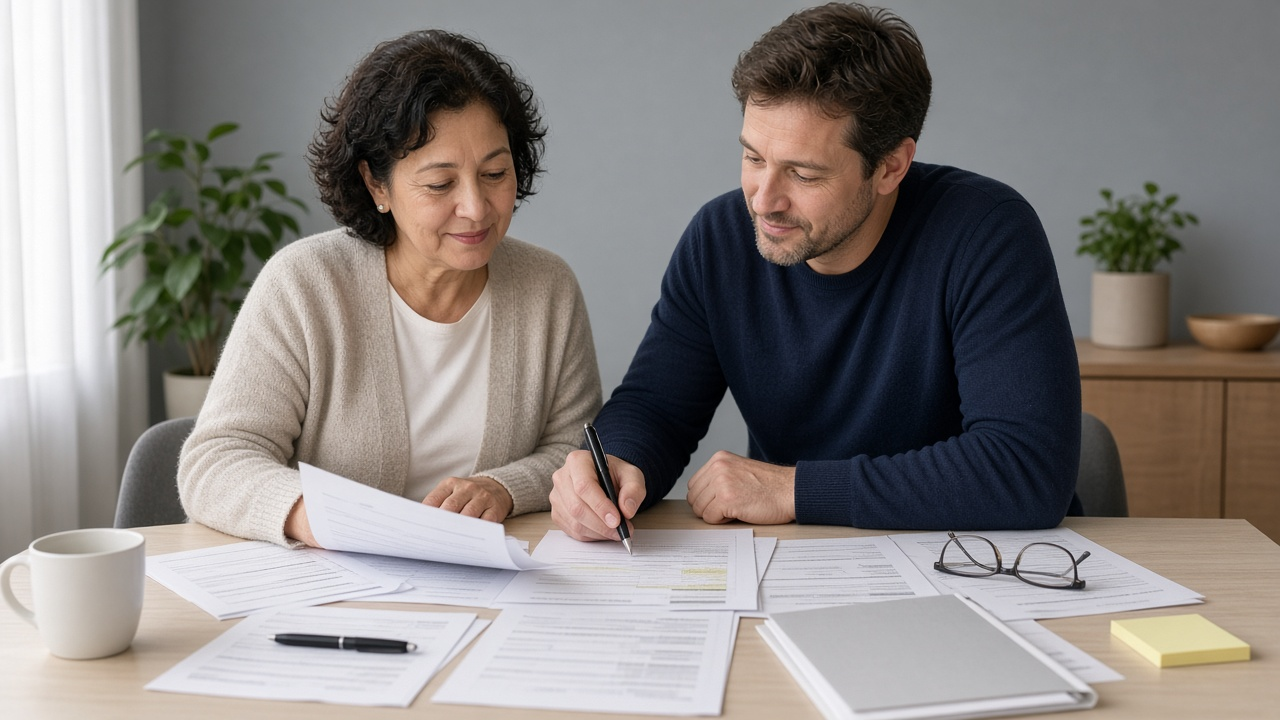
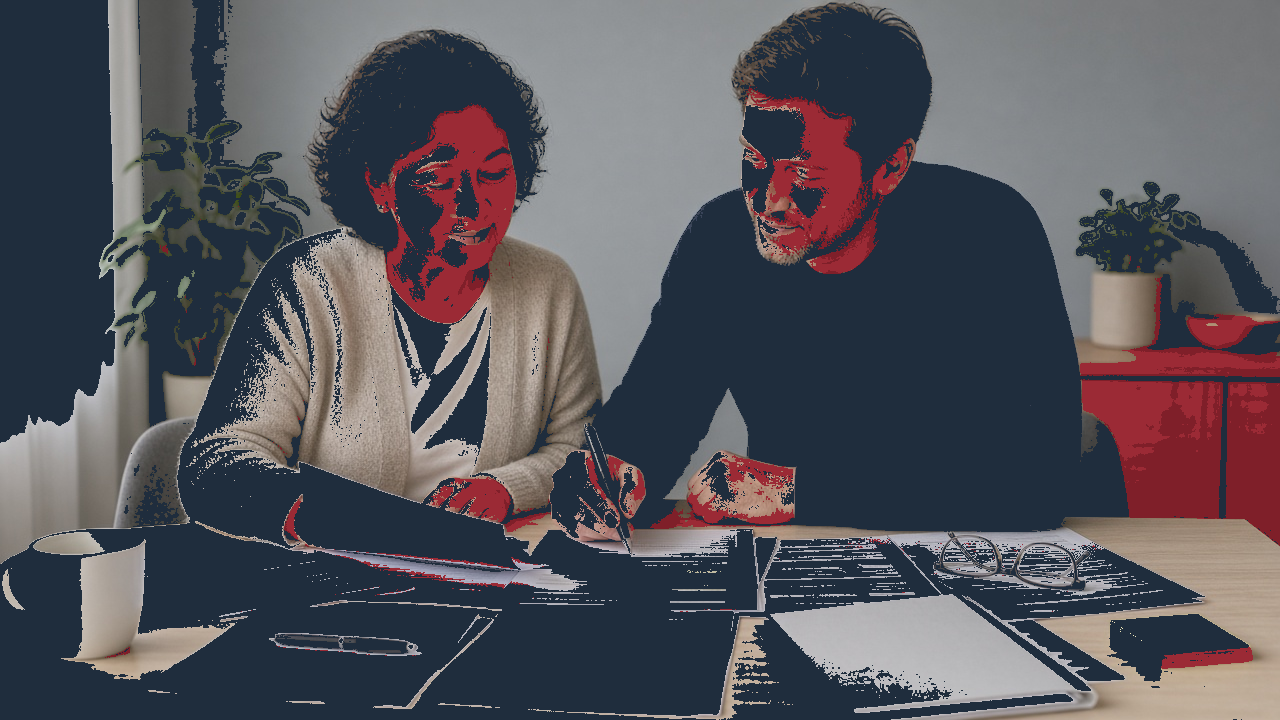
Contact Firm role-gate + Slate & Garnet thumbnail remint (#40)
* Contact Firm role-gate + Slate & Garnet thumbnail remint

Hide Firm on contact for applicant/family roles; show only for attorney
and firm staff paths. Clear firm value and aria-hide wrapper when hidden.

Recolor public raster thumbs, OG share card, and favicon/apple-touch
assets to garnet (#9b2a35) and slate (#1f2d3d) on stone surfaces.
Process Offer copy on how-it-works and methods unchanged.

* Fix Firm field visibility and garnet thumbnail remap

.form .field { display: flex } overrode the hidden attribute, so Firm
stayed on screen for applicant and family. Force display:none on
.form .field[hidden].

_anchor_remap squared channel deltas in int16, which wrapped and
flattened favicon, apple-touch, and lockup-1000 to slate. Use int32
and clip, then regenerate those four rasters so garnet #9b2a35 is present.

---------

diff --git a/js/site.js b/js/site.js
@@ -37,25 +37,50 @@
   var status = document.getElementById("form-status");
   var preview = document.getElementById("form-preview");
   var copyBtn = document.getElementById("copy-request");
+  var roleSelect = document.getElementById("role");
+  var firmField = document.getElementById("firm-field");
+  var firmInput = document.getElementById("firm");
+
+  function roleShowsFirm(value) {
+    return value === "attorney" || value === "firm";
+  }
+
+  function syncFirmField() {
+    if (!roleSelect || !firmField) return;
+    var show = roleShowsFirm(roleSelect.value);
+    firmField.hidden = !show;
+    firmField.setAttribute("aria-hidden", show ? "false" : "true");
+    if (!show && firmInput) firmInput.value = "";
+  }
+
+  if (roleSelect) {
+    roleSelect.addEventListener("change", syncFirmField);
+    syncFirmField();
+  }
 
   form.addEventListener("submit", function (event) {
     event.preventDefault();
 
     var data = new FormData(form);
     var needs = data.getAll("need");
+    var role = data.get("role") || "";
     var lines = [
       "Security in Social record review request",
       "This form stays on your device. Nothing was sent to a server. Copy this request and send it to the person who shared this site. A public inbox will be listed on Contact when one is live.",
       "",
       "Name: " + (data.get("name") || ""),
-      "Firm: " + (data.get("firm") || ""),
-      "Role: " + (data.get("role") || ""),
+      "Role: " + role,
+    ];
+    if (roleShowsFirm(role)) {
+      lines.push("Firm: " + (data.get("firm") || ""));
+    }
+    lines.push(
       "Email: " + (data.get("email") || ""),
       "Need: " + (needs.length ? needs.join(", ") : "not specified"),
       "",
       "Notes:",
       data.get("notes") || "(none)"
-    ];
+    );
     var message = lines.join("\n");
 
     if (preview) preview.textContent = message;

diff --git a/contact.html b/contact.html
@@ -20,6 +20,8 @@
   <meta name="twitter:description" content="Tell us where you are. We read your medical records and explain what the file shows and what is still missing.">
   <meta name="twitter:image" content="https://securityinsocial.com/images/sis-og-share-1200x630.jpg">
   <link rel="icon" href="favicon.svg" type="image/svg+xml">
+  <link rel="icon" href="images/brand/sis-favicon-32.png" sizes="32x32" type="image/png">
+  <link rel="apple-touch-icon" href="apple-touch-icon.png">
   <link rel="stylesheet" href="css/tokens-slate-garnet.css">
   <link rel="stylesheet" href="css/site-chrome-slate-garnet.css">
 </head>
@@ -69,10 +71,6 @@
           <input id="name" name="name" type="text" autocomplete="name" required>
         </div>
         <div class="field">
-          <label for="firm">Firm</label>
-          <input id="firm" name="firm" type="text" autocomplete="organization">
-        </div>
-        <div class="field">
           <label for="role">Role</label>
           <select id="role" name="role">
             <option value="claimant">I am applying</option>
@@ -82,6 +80,10 @@
             <option value="clinician">Clinician</option>
             <option value="other">Other</option>
           </select>
+        </div>
+        <div class="field" id="firm-field" hidden aria-hidden="true">
+          <label for="firm">Firm</label>
+          <input id="firm" name="firm" type="text" autocomplete="organization">
         </div>
         <div class="field">
           <label for="email">Email</label>

diff --git a/how-it-works.html b/how-it-works.html
@@ -20,6 +20,8 @@
   <meta name="twitter:description" content="Five calm steps from the records you have to a plain-English picture of what the file shows, what is still missing, and what to do next.">
   <meta name="twitter:image" content="https://securityinsocial.com/images/sis-og-share-1200x630.jpg">
   <link rel="icon" href="favicon.svg" type="image/svg+xml">
+  <link rel="icon" href="images/brand/sis-favicon-32.png" sizes="32x32" type="image/png">
+  <link rel="apple-touch-icon" href="apple-touch-icon.png">
   <link rel="stylesheet" href="css/tokens-slate-garnet.css">
   <link rel="stylesheet" href="css/site-chrome-slate-garnet.css">
   <link rel="stylesheet" href="css/hero-media.css">

diff --git a/pricing.html b/pricing.html
@@ -20,6 +20,8 @@
   <meta name="twitter:description" content="Two ways to get clarity. $395 lifetime full medical record review. Or the companion app for $129.99 a year. No percent of benefits. No outcome guarantees.">
   <meta name="twitter:image" content="https://securityinsocial.com/images/sis-og-share-1200x630.jpg">
   <link rel="icon" href="favicon.svg" type="image/svg+xml">
+  <link rel="icon" href="images/brand/sis-favicon-32.png" sizes="32x32" type="image/png">
+  <link rel="apple-touch-icon" href="apple-touch-icon.png">
   <link rel="stylesheet" href="css/tokens-slate-garnet.css">
   <link rel="stylesheet" href="css/site-chrome-slate-garnet.css">
 </head>

diff --git a/methods.html b/methods.html
@@ -20,6 +20,8 @@
   <meta name="twitter:description" content="We help seniors and families understand a medical file before they apply. One front door: Start a record review.">
   <meta name="twitter:image" content="https://securityinsocial.com/images/sis-og-share-1200x630.jpg">
   <link rel="icon" href="favicon.svg" type="image/svg+xml">
+  <link rel="icon" href="images/brand/sis-favicon-32.png" sizes="32x32" type="image/png">
+  <link rel="apple-touch-icon" href="apple-touch-icon.png">
   <link rel="stylesheet" href="css/tokens-slate-garnet.css">
   <link rel="stylesheet" href="css/site-chrome-slate-garnet.css">
 </head>

diff --git a/index.html b/index.html
@@ -20,6 +20,8 @@
   <meta name="twitter:description" content="We read your medical records and explain them in everyday words.">
   <meta name="twitter:image" content="https://securityinsocial.com/images/sis-og-share-1200x630.jpg">
   <link rel="icon" href="favicon.svg" type="image/svg+xml">
+  <link rel="icon" href="images/brand/sis-favicon-32.png" sizes="32x32" type="image/png">
+  <link rel="apple-touch-icon" href="apple-touch-icon.png">
   <link rel="stylesheet" href="css/tokens-slate-garnet.css">
   <link rel="stylesheet" href="css/site-chrome-slate-garnet.css">
 </head>

diff --git a/css/site-chrome-slate-garnet.css b/css/site-chrome-slate-garnet.css
@@ -690,6 +690,11 @@ details.faq-item .answer {
   margin: 0;
 }
 
+/* Author `display:flex` beats the UA `[hidden]{display:none}` rule. */
+.form .field[hidden] {
+  display: none !important;
+}
+
 .form .field input,
 .form .field textarea,
 .form .field select,

diff --git a/scripts/remint-slate-garnet-thumbs.py b/scripts/remint-slate-garnet-thumbs.py
@@ -1,0 +1,253 @@
+#!/usr/bin/env python3
+"""Recolor public raster thumbs from Soft Clinic / Campaign Ink to Slate & Garnet."""
+from __future__ import annotations
+
+import os
+import shutil
+import subprocess
+import sys
+from pathlib import Path
+
+import numpy as np
+from PIL import Image
+
+ROOT = Path(__file__).resolve().parents[1]
+IMAGES = ROOT / "images"
+
+GARNET = np.array([155, 42, 53], dtype=np.uint8)
+GARNET_DARK = np.array([127, 31, 41], dtype=np.uint8)
+SLATE = np.array([31, 45, 61], dtype=np.uint8)
+STONE = np.array([244, 244, 242], dtype=np.uint8)
+
+ANCHORS = [
+    ([242, 247, 244], STONE, 35),
+    ([58, 125, 106], SLATE, 50),
+    ([15, 107, 92], SLATE, 50),
+    ([7, 9, 13], SLATE, 28),
+    ([199, 147, 52], GARNET, 58),
+    ([201, 146, 15], GARNET, 58),
+    ([199, 146, 48], GARNET, 58),
+    ([200, 146, 48], GARNET, 58),
+]
+
+BANNED_EXACT = [
+    (0xf2, 0xf7, 0xf4),
+    (0x3a, 0x7d, 0x6a),
+    (0xc7, 0x93, 0x34),
+    (0xc9, 0x92, 0x0f),
+    (0x07, 0x09, 0x0d),
+    (0x0f, 0x6b, 0x5c),
+]
+
+SKIP = {
+    IMAGES / "sis-how-it-works-steps.png",
+}
+
+# Brand rasters regenerated from SVG (already Slate & Garnet), then passed
+# through the fixed remap. OG share card is not in this set.
+BRAND_THUMBS = {
+    IMAGES / "brand" / "sis-favicon-16.png",
+    IMAGES / "brand" / "sis-favicon-32.png",
+    IMAGES / "brand" / "sis-lockup-horizontal-1000.png",
+    ROOT / "apple-touch-icon.png",
+}
+
+
+def _anchor_remap(rgb: np.ndarray) -> np.ndarray:
+    """Recolor near-anchor pixels.
+
+    Squared channel deltas use int32 and are clipped back to 0–255.
+    int16 wraps (255**2 does not fit), which false-hits distant pixels
+    and flattens garnet marks to slate.
+    """
+    flat = np.ascontiguousarray(rgb).reshape(-1, 3).astype(np.int32)
+    for src, dst, tol in ANCHORS:
+        src_a = np.asarray(src, dtype=np.int32)
+        delta = flat - src_a
+        dist2 = np.sum(delta * delta, axis=1)
+        hit = dist2 <= int(tol) * int(tol)
+        if np.any(hit):
+            flat[hit] = np.asarray(dst, dtype=np.int32)
+    return np.clip(flat, 0, 255).astype(np.uint8).reshape(rgb.shape)
+
+
+def _hsv_remap(rgb: np.ndarray) -> np.ndarray:
+    out = rgb.astype(np.float32) / 255.0
+    r, g, b = out[..., 0], out[..., 1], out[..., 2]
+    maxc = np.maximum(np.maximum(r, g), b)
+    minc = np.minimum(np.minimum(r, g), b)
+    v = maxc
+    delt = maxc - minc
+    s = np.where(maxc > 0, delt / maxc, 0.0)
+
+    h = np.zeros_like(v)
+    mask = delt > 1e-6
+    rm, gm, bm = mask & (maxc == r), mask & (maxc == g), mask & (maxc == b)
+    h[rm] = ((g[rm] - b[rm]) / delt[rm]) % 6
+    h[gm] = (b[gm] - r[gm]) / delt[gm] + 2
+    h[bm] = (r[bm] - g[bm]) / delt[bm] + 4
+    h = h / 6.0
+    hd = h * 360.0
+
+    px = rgb.copy()
+    dark = (v < 0.08) & (s < 0.5)
+    px[dark] = SLATE
+
+    ochre = (hd > 15) & (hd < 70) & (s > 0.35) & (v > 0.2)
+    px[ochre & (v < 0.45)] = GARNET_DARK
+    px[ochre & (v >= 0.45)] = GARNET
+
+    sage_hi = (hd > 80) & (hd < 165) & (s > 0.12) & (v > 0.75)
+    px[sage_hi] = STONE
+
+    sage_mid = (hd > 80) & (hd < 170) & (s > 0.25) & (v > 0.25) & (v < 0.75)
+    px[sage_mid] = SLATE
+
+    return px
+
+
+def remint_image(path: Path) -> None:
+    img = Image.open(path)
+    has_alpha = img.mode in ("RGBA", "LA") or (img.mode == "P" and "transparency" in img.info)
+    if has_alpha:
+        img = img.convert("RGBA")
+        rgb = np.array(img)[..., :3]
+        alpha = np.array(img)[..., 3]
+        rgb = _hsv_remap(_anchor_remap(rgb))
+        out = np.dstack([rgb, alpha])
+        img = Image.fromarray(out, "RGBA")
+    else:
+        rgb = np.array(img.convert("RGB"))
+        rgb = _hsv_remap(_anchor_remap(rgb))
+        img = Image.fromarray(rgb, "RGB")
+
+    if path.suffix.lower() in {".jpg", ".jpeg"}:
+        img = img.convert("RGB")
+        img.save(path, quality=90, optimize=True)
+    elif path.suffix.lower() == ".webp":
+        img.save(path, quality=90, method=6)
+    else:
+        img.save(path, optimize=True)
+
+
+def count_banned(path: Path) -> int:
+    im = np.array(Image.open(path).convert("RGB"))
+    total = 0
+    for rgb in BANNED_EXACT:
+        r, g, b = rgb
+        total += int(((im[:, :, 0] == r) & (im[:, :, 1] == g) & (im[:, :, 2] == b)).sum())
+    return total
+
+
+def iter_rasters() -> list[Path]:
+    paths: list[Path] = []
+    for dirpath, _, files in os.walk(IMAGES):
+        for name in files:
+            if name.lower().endswith((".png", ".jpg", ".jpeg", ".webp")):
+                paths.append(Path(dirpath) / name)
+    paths.append(ROOT / "apple-touch-icon.png")
+    return sorted(set(paths))
+
+
+def _raster_svg(svg: Path, width: int, height: int, out: Path, background: tuple[int, int, int] | None) -> None:
+    rsvg = shutil.which("rsvg-convert")
+    if rsvg is None:
+        raise RuntimeError("rsvg-convert is not available")
+    out.parent.mkdir(parents=True, exist_ok=True)
+    subprocess.check_call(
+        [rsvg, "-w", str(width), "-h", str(height), str(svg), "-o", str(out)],
+    )
+    if background is None:
+        return
+    img = Image.open(out).convert("RGBA")
+    canvas = Image.new("RGB", img.size, background)
+    canvas.paste(img, mask=img.getchannel("A"))
+    canvas.save(out, optimize=True)
+
+
+def render_apple_touch_icon() -> None:
+    out = ROOT / "apple-touch-icon.png"
+    svg = IMAGES / "brand" / "sis-favicon.svg"
+    stone = tuple(int(x) for x in STONE)
+    try:
+        _raster_svg(svg, 180, 180, out, stone)
+    except (RuntimeError, subprocess.CalledProcessError, OSError) as exc:
+        print("apple-touch svg raster skipped:", exc, file=sys.stderr)
+        _draw_mark(180).save(out, optimize=True)
+
+
+def _draw_mark(size: int) -> Image.Image:
+    canvas = Image.new("RGB", (size, size), tuple(int(x) for x in STONE))
+    px = canvas.load()
+    scale = size / 64.0
+
+    def fill_rect(x, y, w, h, color):
+        x2, y2 = int(x * scale), int(y * scale)
+        w2, h2 = int(w * scale), int(h * scale)
+        for yy in range(y2, min(size, y2 + h2)):
+            for xx in range(x2, min(size, x2 + w2)):
+                px[xx, yy] = color
+
+    fill_rect(24, 2, 36, 44, tuple(SLATE.tolist()))
+    fill_rect(4, 14, 40, 48, tuple(GARNET.tolist()))
+    fill_rect(13, 30, 22, 6, (255, 255, 255))
+    fill_rect(13, 43, 14, 6, (255, 255, 255))
+    return canvas
+
+
+def render_favicon_pngs() -> None:
+    svg = IMAGES / "brand" / "sis-favicon.svg"
+    for dim, name in ((16, "sis-favicon-16.png"), (32, "sis-favicon-32.png")):
+        dest = IMAGES / "brand" / name
+        try:
+            _raster_svg(svg, dim, dim, dest, None)
+        except (RuntimeError, subprocess.CalledProcessError, OSError) as exc:
+            print(f"favicon svg raster skipped ({name}):", exc, file=sys.stderr)
+            _draw_mark(dim).save(dest, optimize=True)
+
+
+def render_lockup_1000() -> None:
+    dest = IMAGES / "brand" / "sis-lockup-horizontal-1000.png"
+    svg = IMAGES / "brand" / "sis-lockup-horizontal.svg"
+    _raster_svg(svg, 1000, 132, dest, None)
+
+
+def regenerate_brand_thumbs() -> int:
+    """Rebuild favicon, apple-touch, and lockup-1000, then remap with fixed math."""
+    render_apple_touch_icon()
+    render_favicon_pngs()
+    render_lockup_1000()
+    for path in sorted(BRAND_THUMBS):
+        if not path.exists():
+            print("missing brand thumb", path, file=sys.stderr)
+            return 1
+        before = count_banned(path)
+        remint_image(path)
+        after = count_banned(path)
+        print(f"brand {path.relative_to(ROOT)} banned {before} -> {after}")
+        if after:
+            return 1
+    return 0
+
+
+def main() -> int:
+    brand_resolved = {p.resolve() for p in BRAND_THUMBS}
+    skip_resolved = {p.resolve() for p in SKIP}
+    for path in iter_rasters():
+        if not path.exists():
+            continue
+        resolved = path.resolve()
+        if resolved in skip_resolved or resolved in brand_resolved:
+            print("skip (rendered after remap)", path.relative_to(ROOT))
+            continue
+        before = count_banned(path)
+        remint_image(path)
+        after = count_banned(path)
+        print(f"remint {path.relative_to(ROOT)} banned {before} -> {after}")
+        if after:
+            return 1
+    return regenerate_brand_thumbs()
+
+
+if __name__ == "__main__":
+    raise SystemExit(main())
